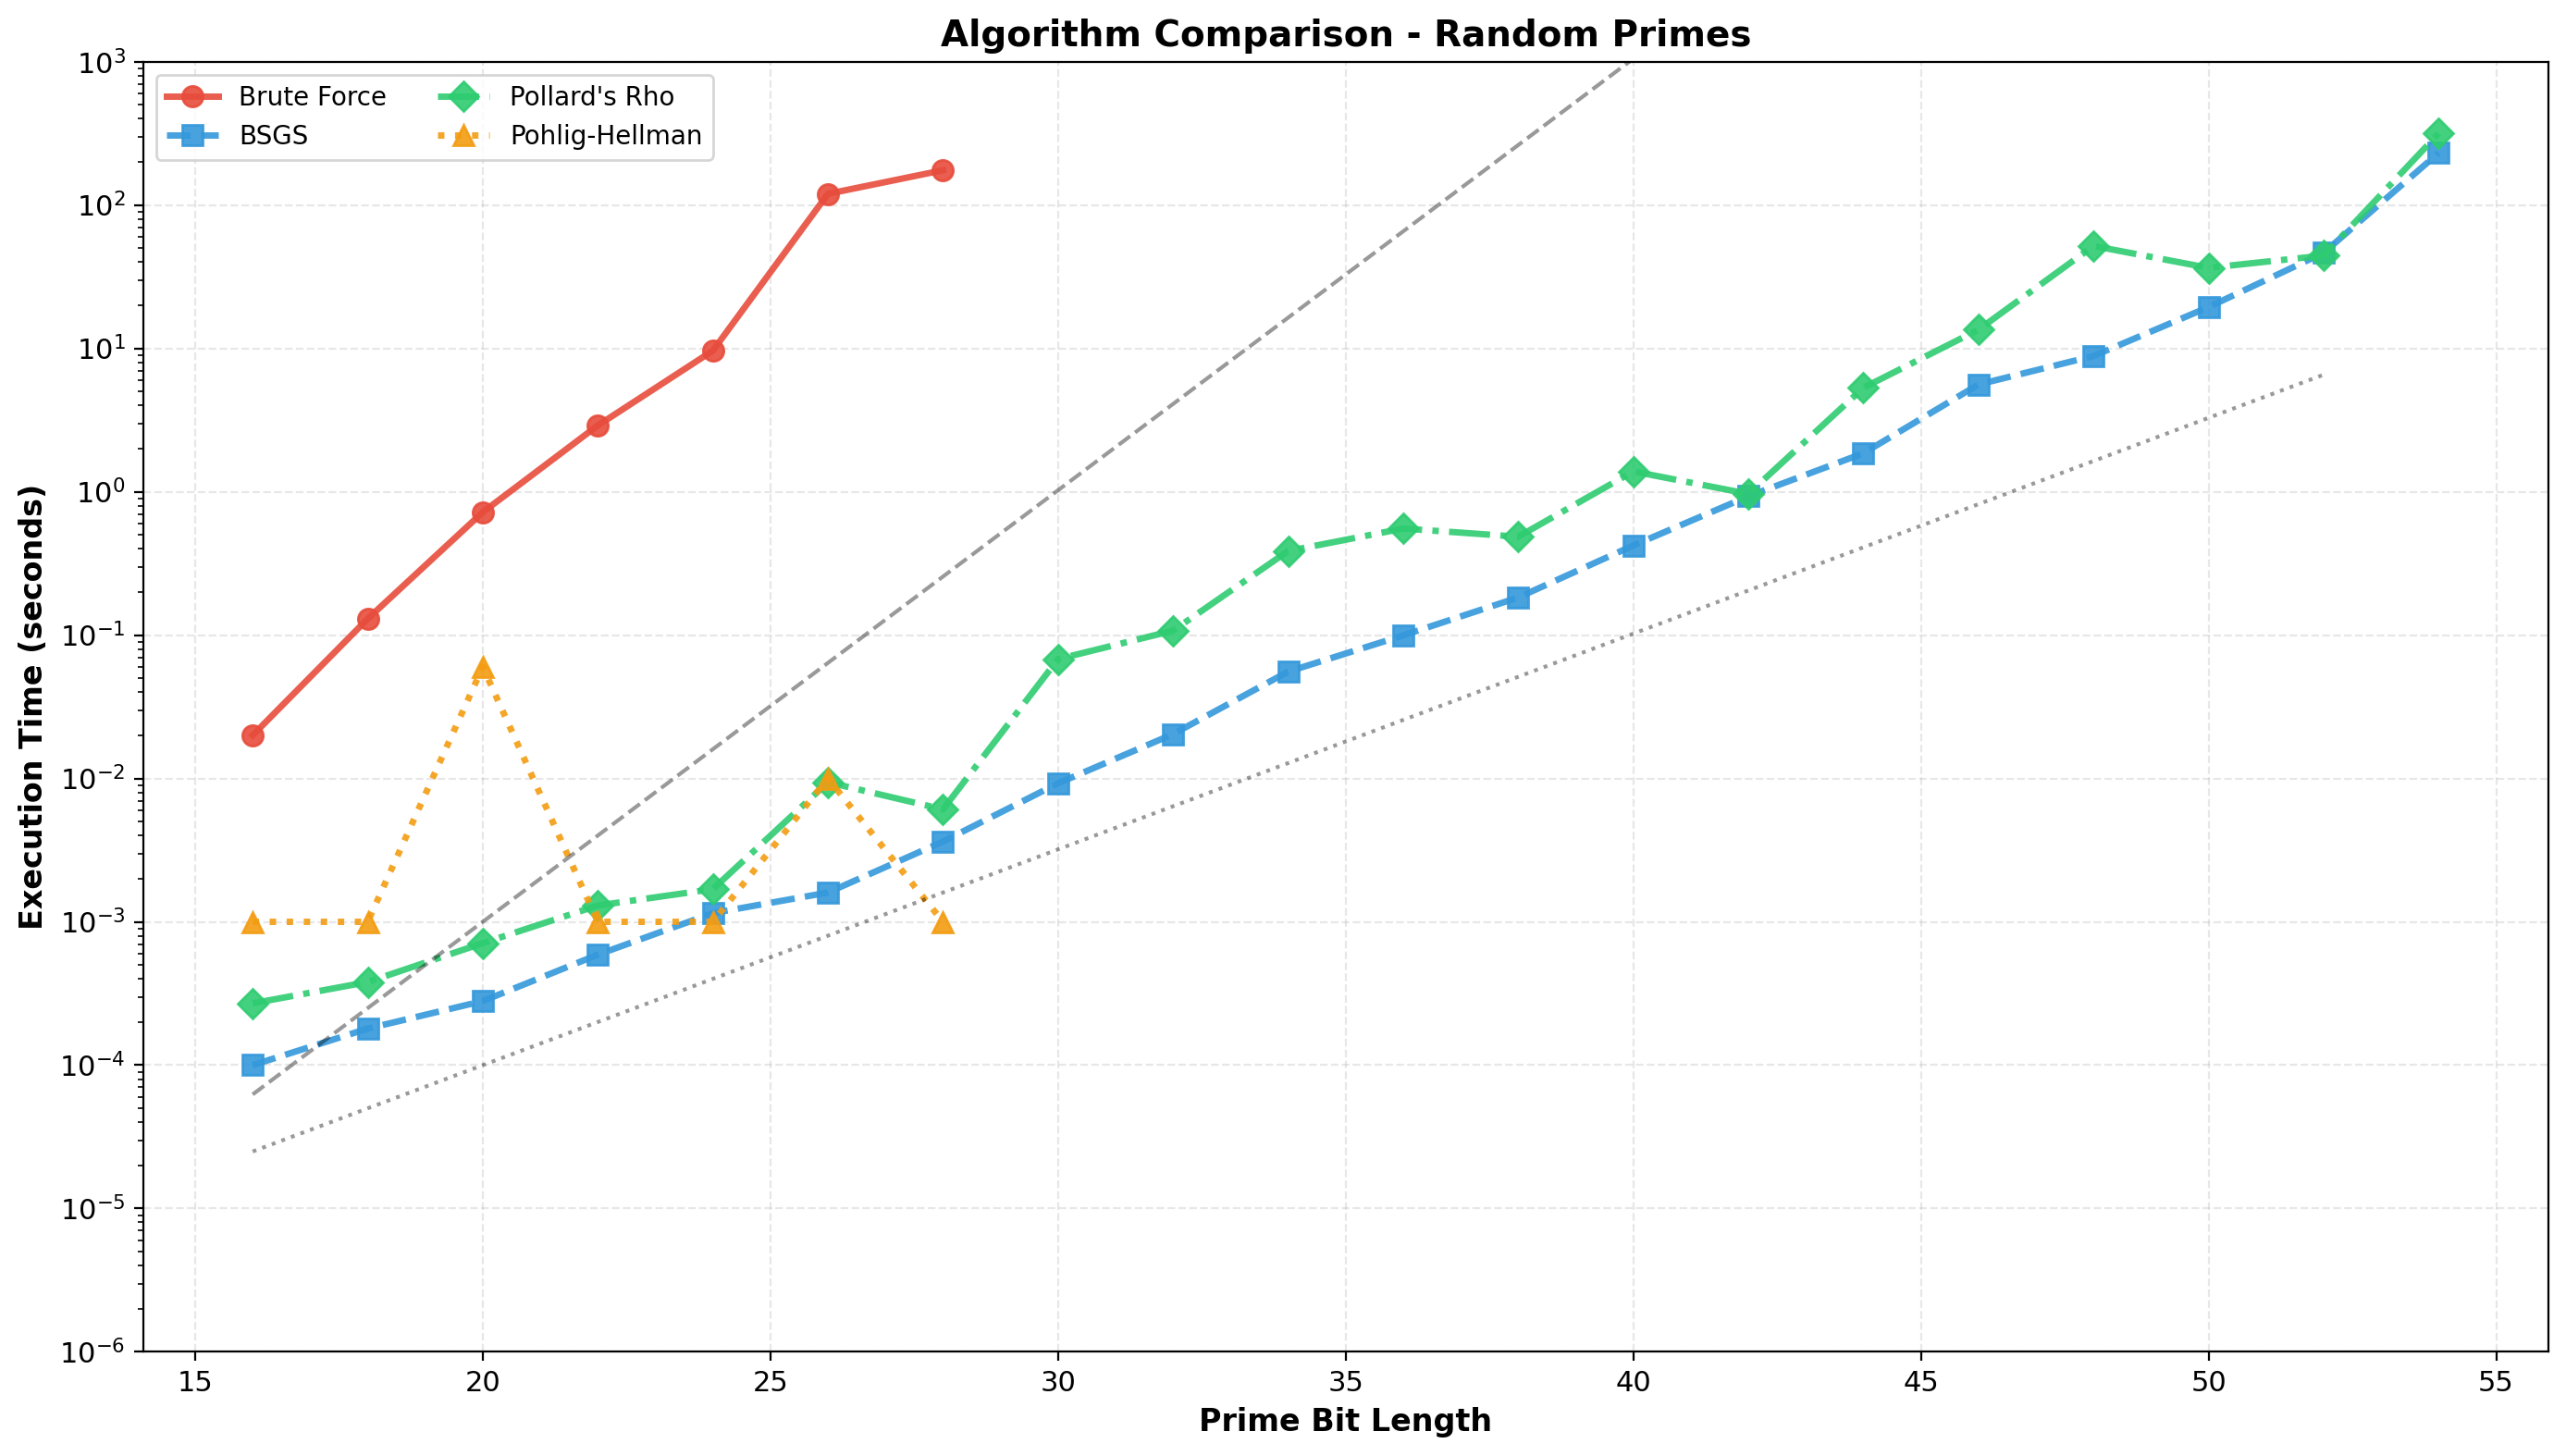
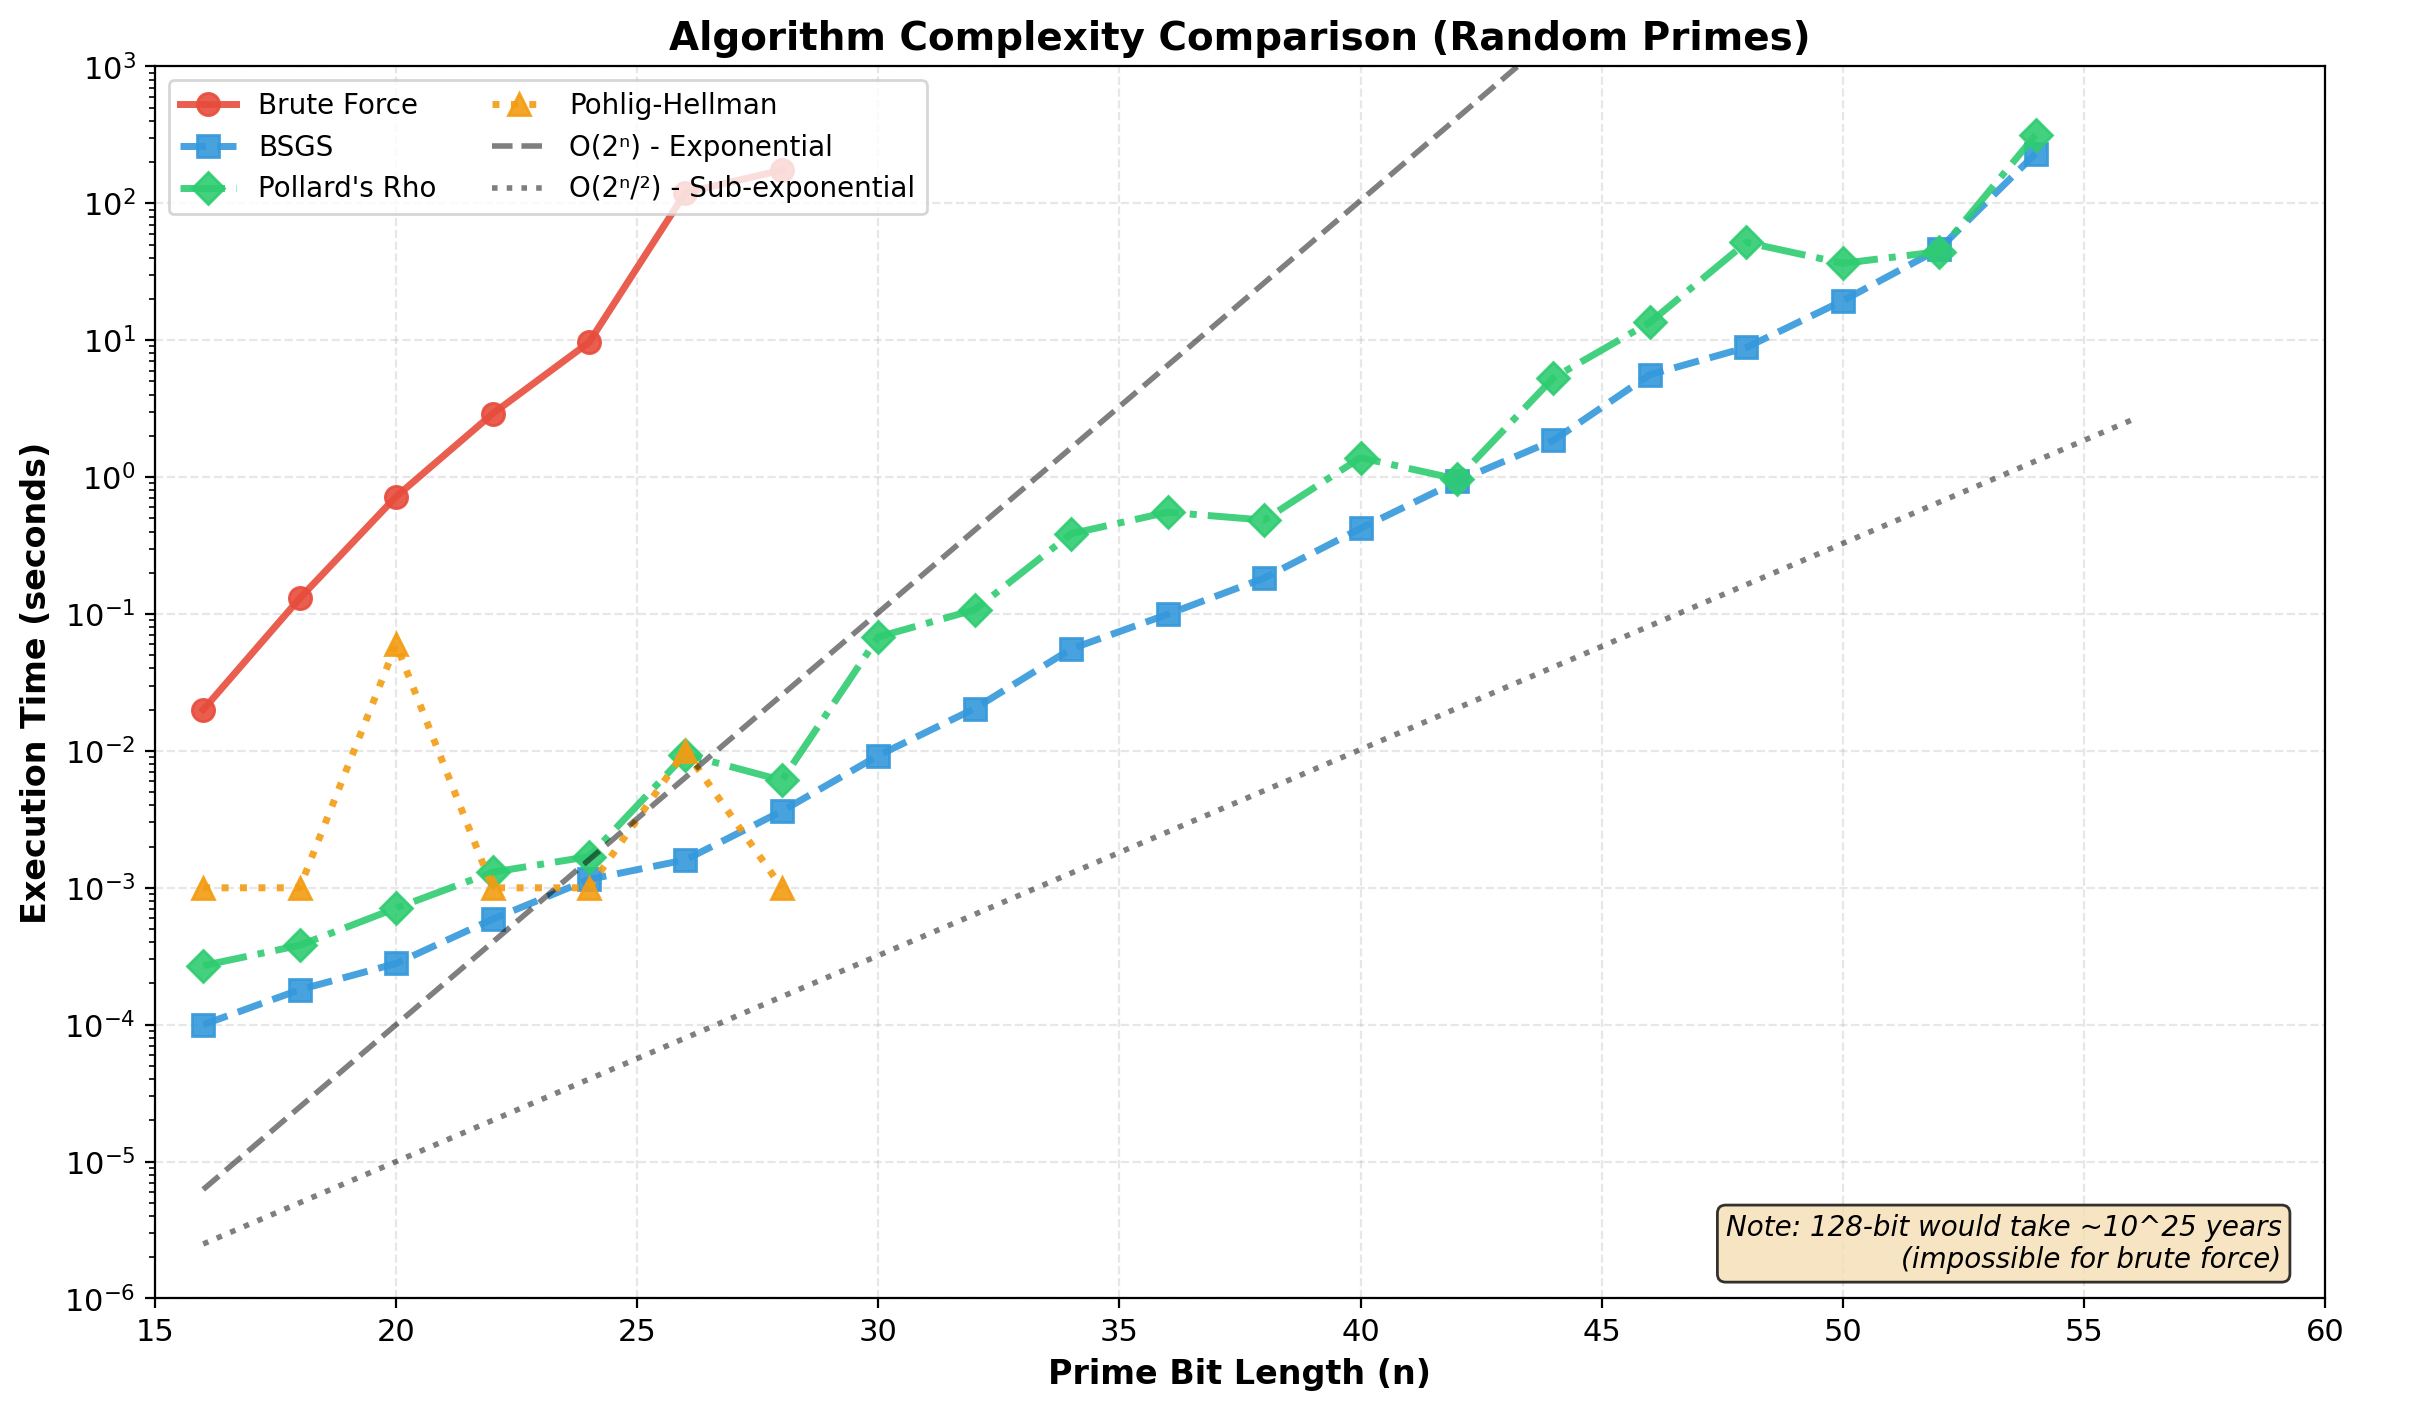
Finalize report, fix gitignore, add MIT license, and remove cached files

diff --git a/README.md b/README.md
@@ -76,7 +76,6 @@ analysis/
 
 ### Installation
 ```bash
-cd analysis
 pip install -r requirements.txt
 ```
 
@@ -375,7 +374,6 @@ A: Modern systems use much larger primes (2048+ bits) where these attacks are in
 Everything is set up and ready to run. Start with:
 
 ```bash
-cd d:\IBA\Sem-6\DAA\Project\analysis
 python master_runner.py
 ```
 